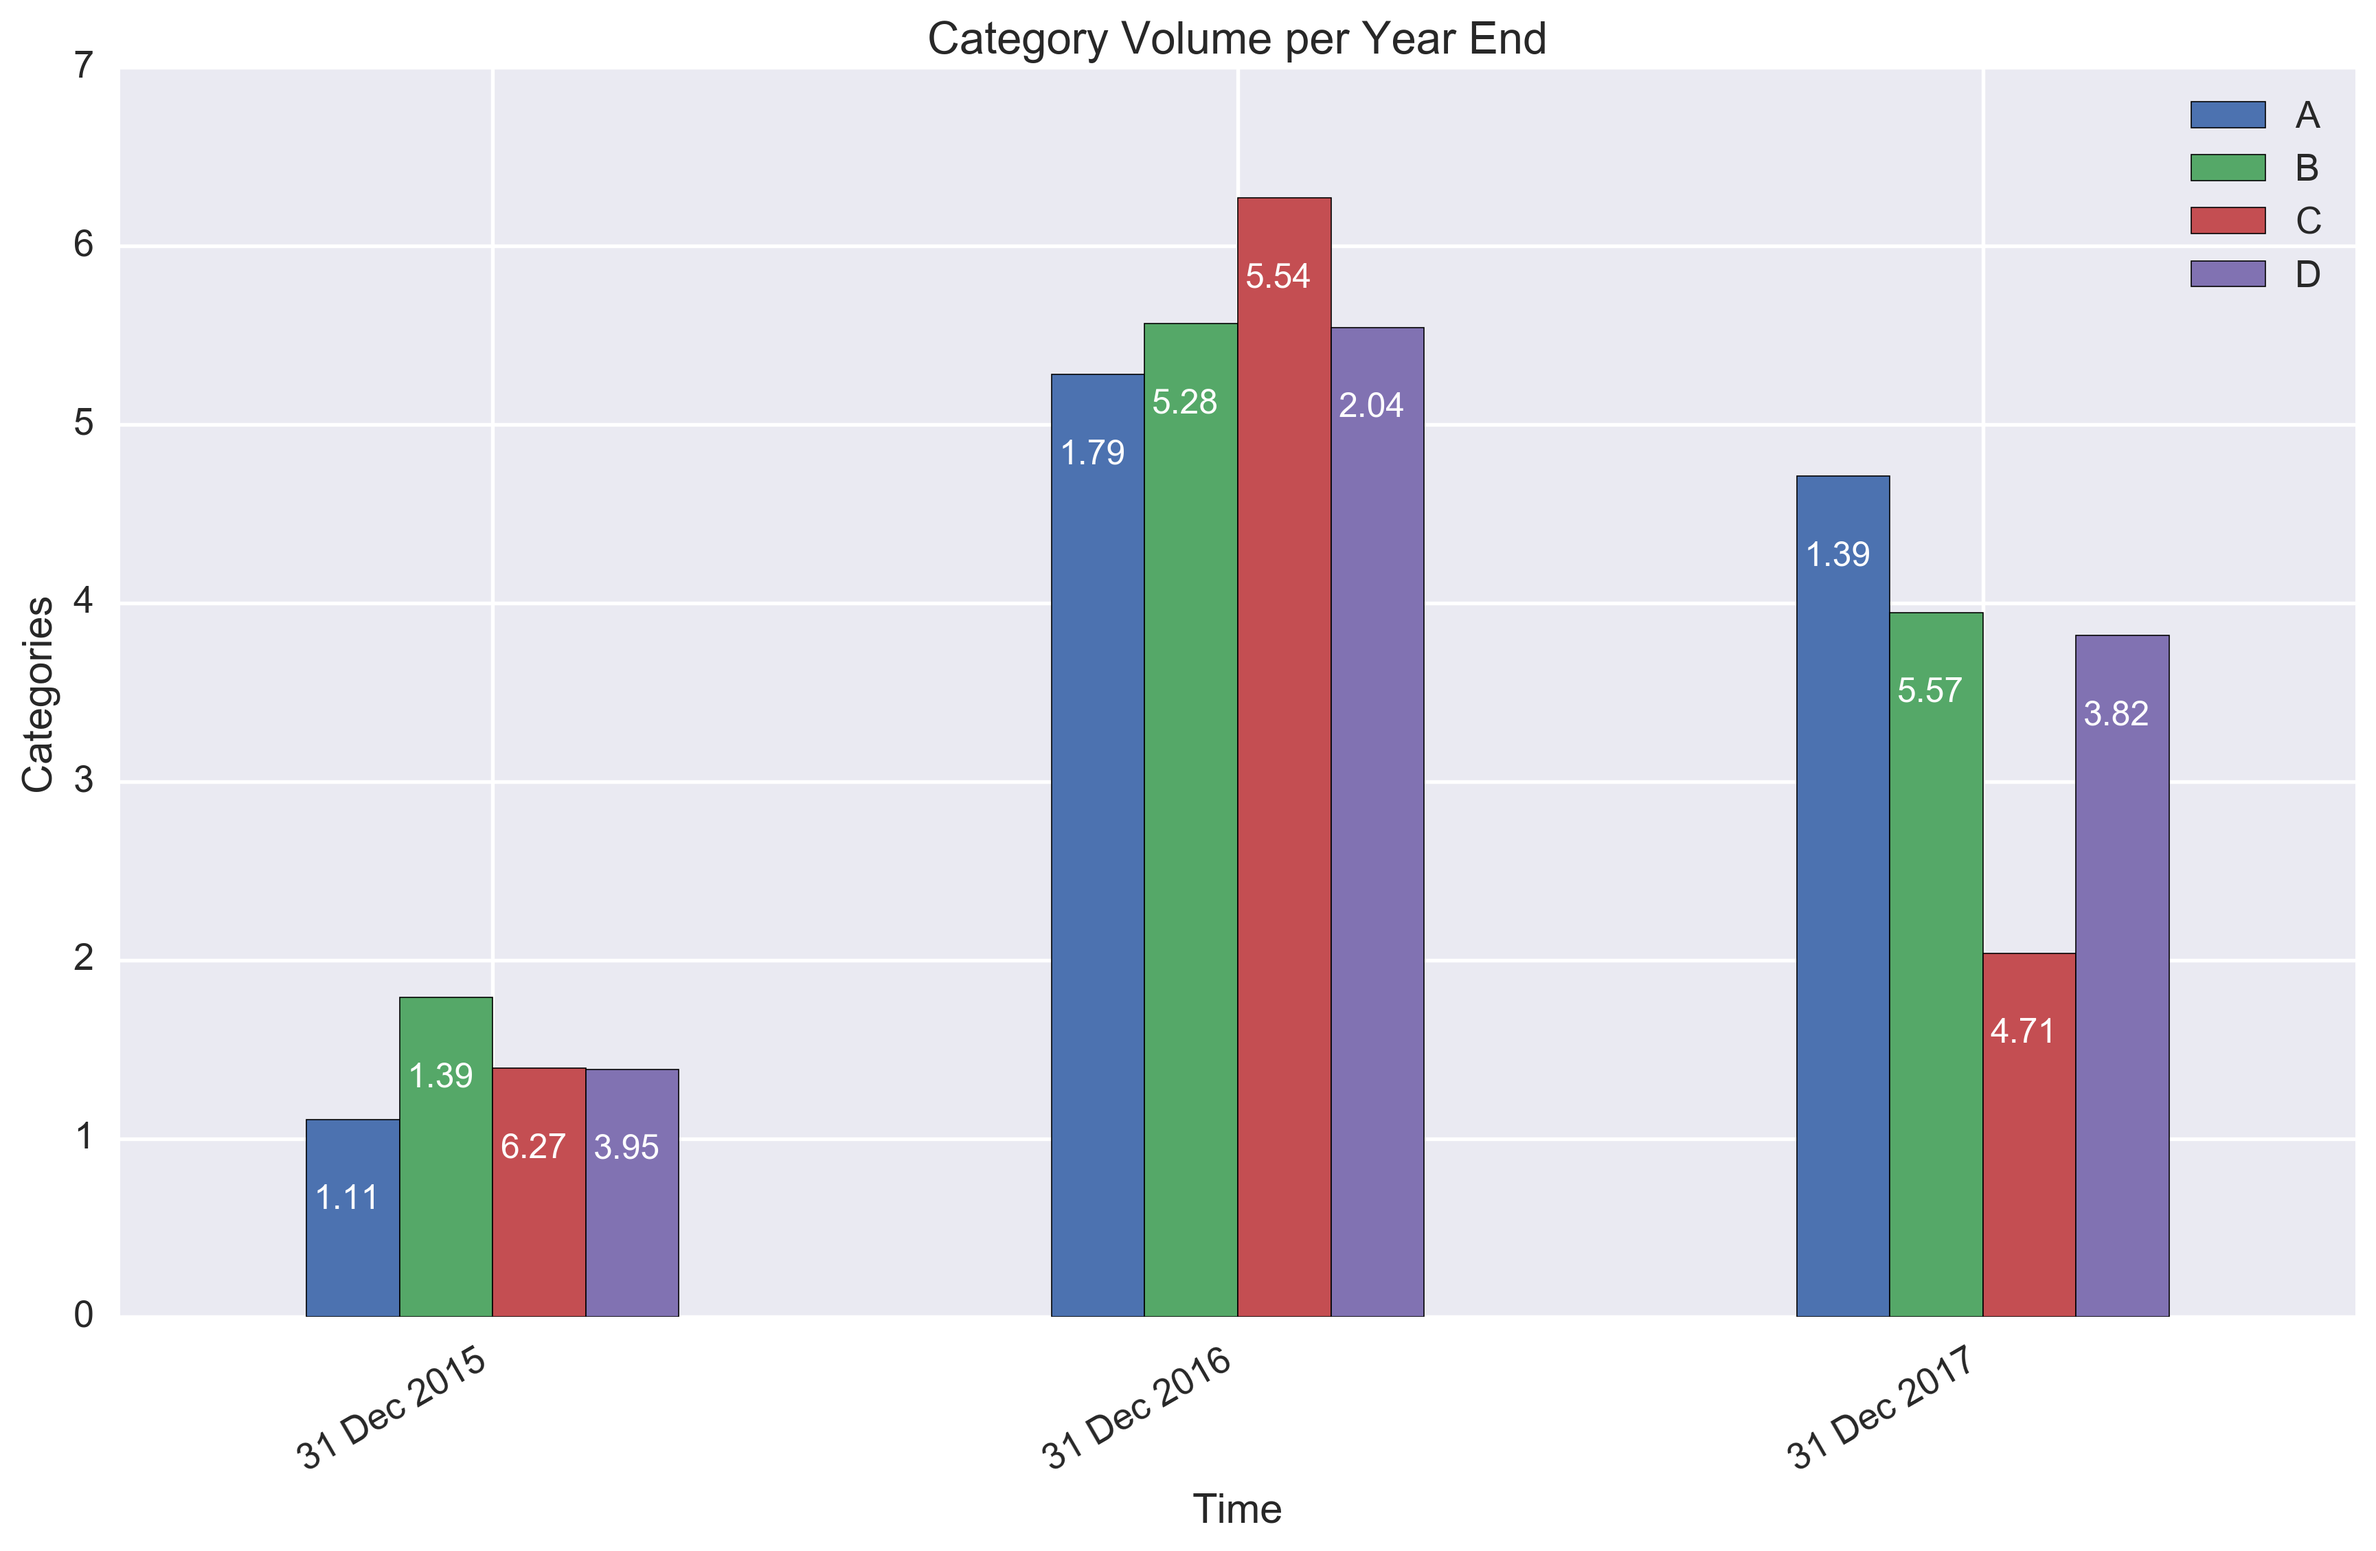
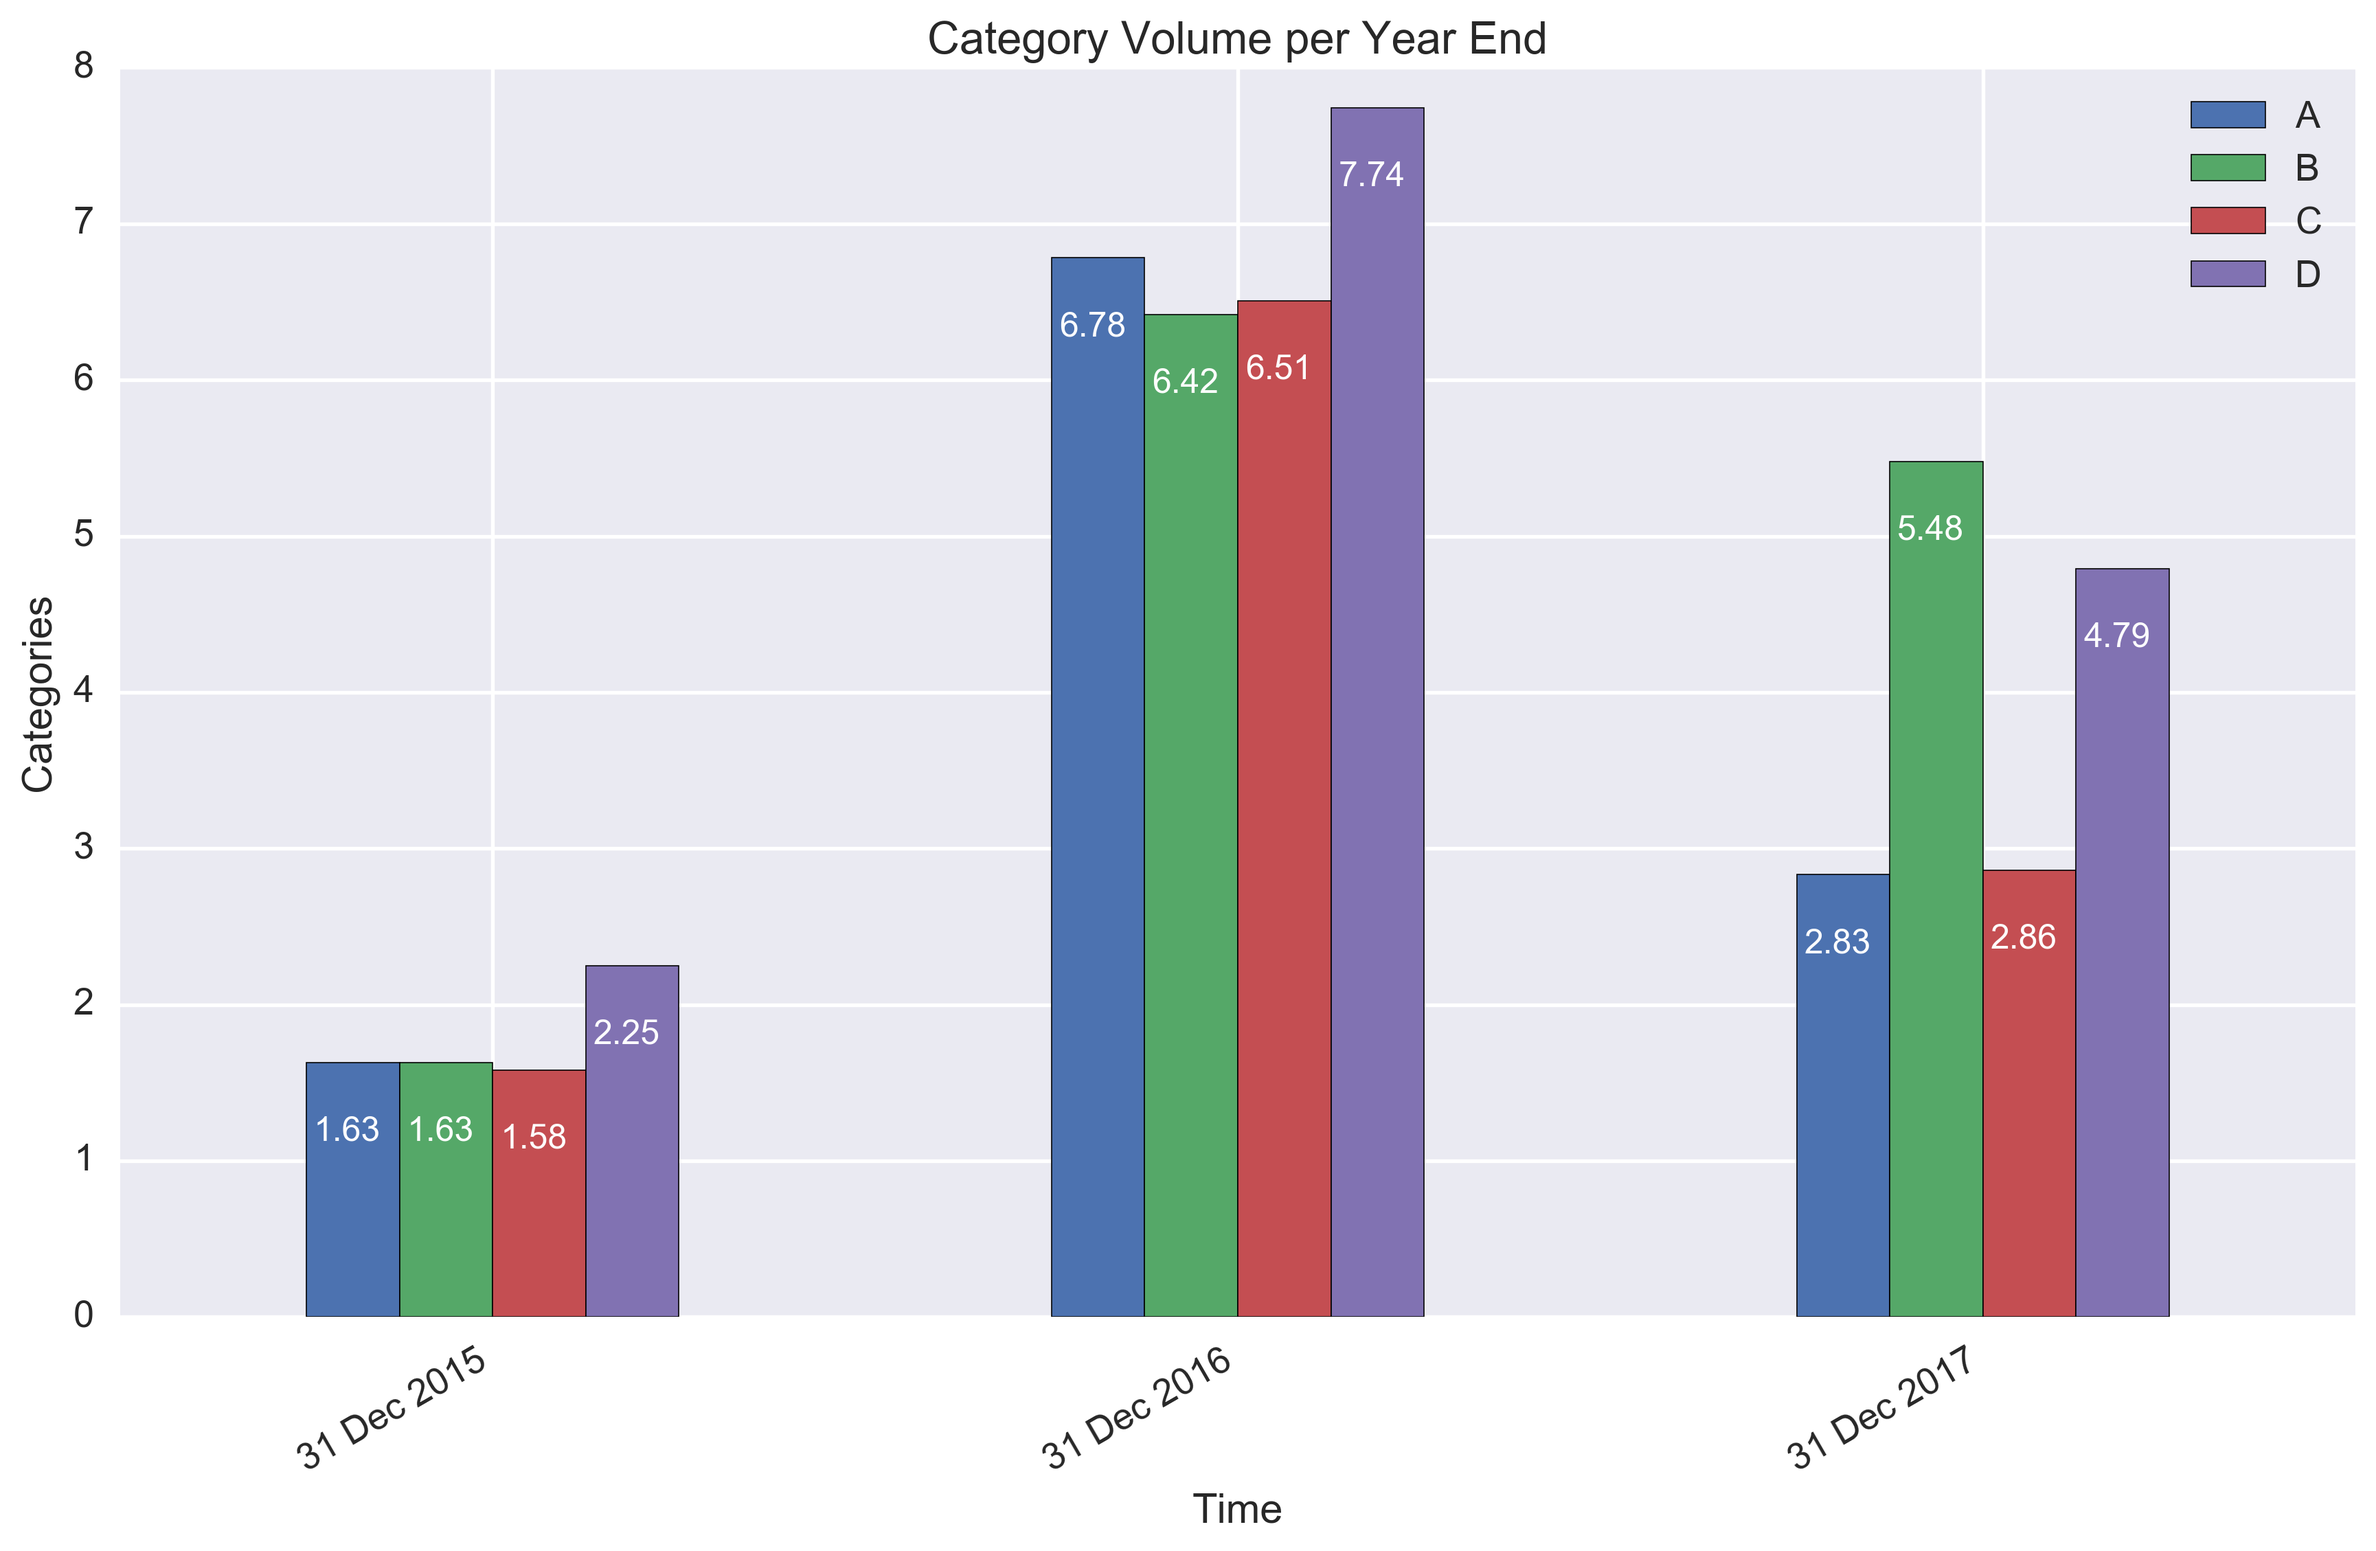
fix bug in code, in post

diff --git a/_posts/2017-06-25-Notes on plotting in Python.md b/_posts/2017-06-25-Notes on plotting in Python.md
@@ -110,7 +110,7 @@ ax.xaxis.set_major_formatter(plt.FixedFormatter(df.index.to_series().dt.strftime
 
 # annotate data labels onto vertical bars
 # see https://matplotlib.org/users/annotations_guide.html
-for bar,(ix,col) in zip(ax.patches, pd.MultiIndex.from_product([df.index, df.columns])):
+for bar,(col,ix) in zip(ax.patches, pd.MultiIndex.from_product([df.columns,df.index])):
     ax.annotate(str(round(df.loc[ix,col],2)), xy=(bar.get_x()+.01, bar.get_height()-.5), color='white')
 
 # format
